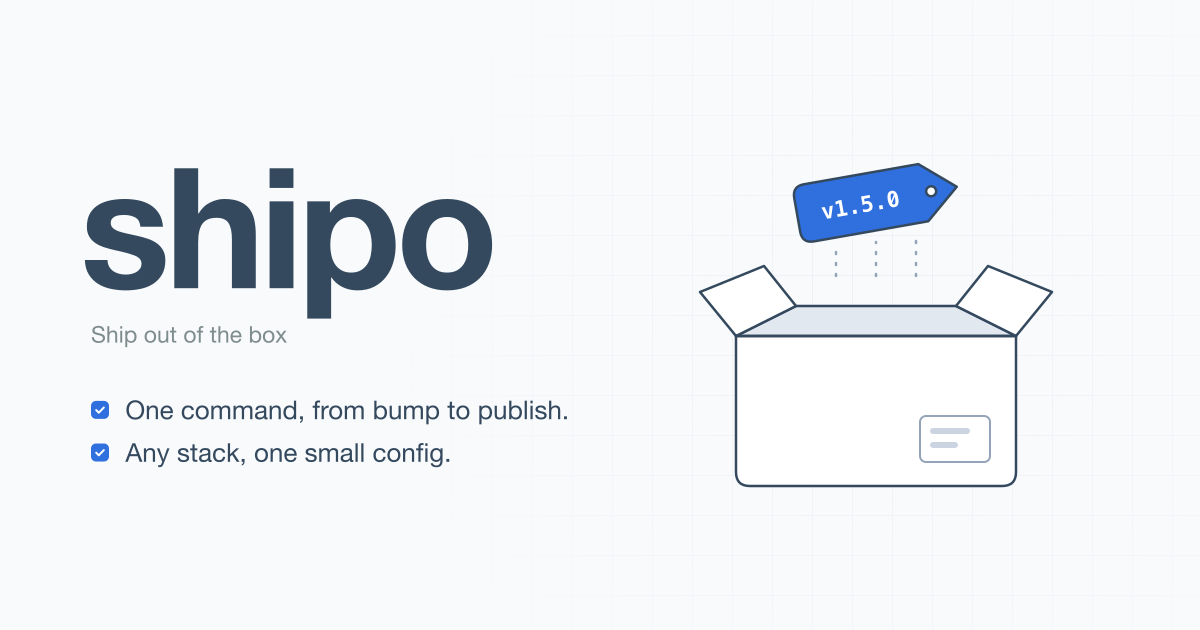
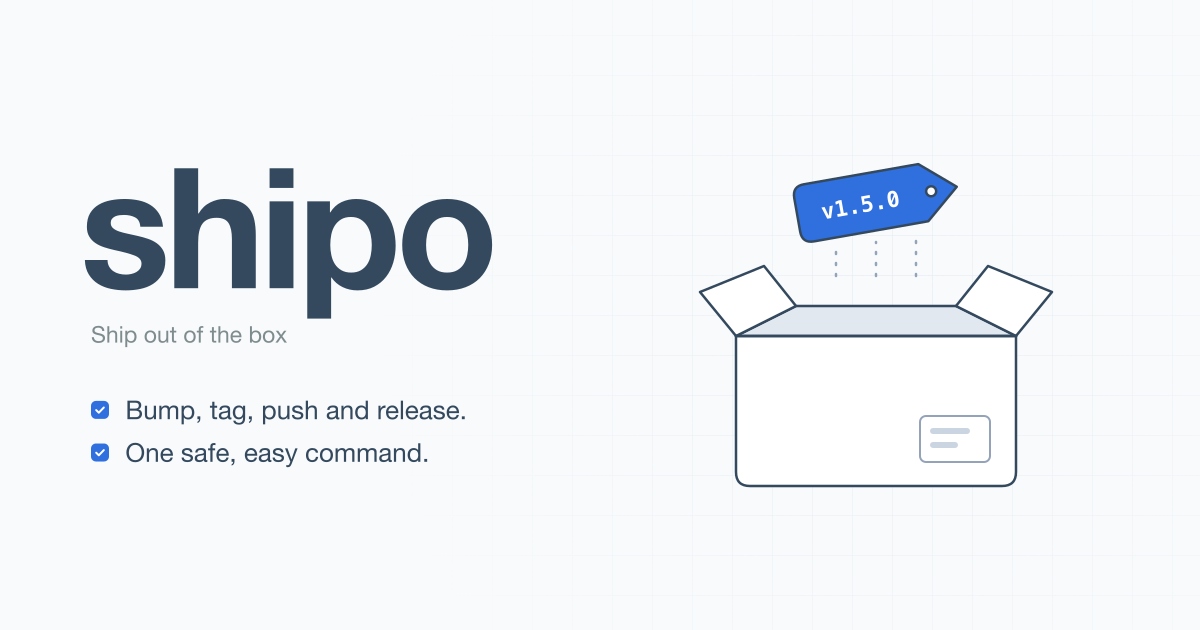
docs: say what shipo is, and what it is not
The tagline, the docs, the og image and the Homebrew description now
say it plainly: the release tasks you repeat by hand, in one safe, easy
command, on top of git, GitHub and your own tools. A GoReleaser recipe
shows the hand-off.

Changed region(s): [[0.0925, 0.6333, 0.4625, 0.754]]

diff --git a/docs/index.html b/docs/index.html
@@ -4,15 +4,15 @@
         <meta charset="UTF-8" />
         <meta name="viewport" content="width=device-width, initial-scale=1.0" />
         <title>shipo · Ship out of the box</title>
-        <meta name="description" content="shipo: one binary and a few lines of config: bump, tag, build and publish any repo" />
+        <meta name="description" content="Bump, tag, push, release: the tasks you repeat by hand, in one safe, easy command" />
         <meta property="og:type" content="website" />
         <meta property="og:url" content="https://diphyx.github.io/shipo/" />
         <meta property="og:title" content="shipo · Ship out of the box" />
-        <meta property="og:description" content="One binary and a few lines of config: bump, tag, build and publish any repo" />
+        <meta property="og:description" content="Bump, tag, push, release: the tasks you repeat by hand, in one safe, easy command" />
         <meta property="og:image" content="https://diphyx.github.io/shipo/_media/og.png" />
         <meta property="og:image:width" content="1200" />
         <meta property="og:image:height" content="630" />
-        <meta property="og:image:alt" content="shipo: ship out of the box. One binary and a few lines of config: bump, tag, build and publish any repo." />
+        <meta property="og:image:alt" content="shipo, ship out of the box: bump, tag, push and release in one safe, easy command. A release tag lifts out of an open box." />
         <meta name="twitter:card" content="summary_large_image" />
         <meta name="twitter:image" content="https://diphyx.github.io/shipo/_media/og.png" />
         <link rel="stylesheet" href="https://cdn.jsdelivr.net/npm/docsify@4/lib/themes/vue.css" />

diff --git a/docs/README.md b/docs/README.md
@@ -2,7 +2,7 @@
 
 **Ship out of the box**
 
-> One binary and a few lines of config: bump, tag, build and publish any repo
+> Bump, tag, push, release: the tasks you repeat by hand, in one safe, easy command
 
 ![checks, version, bump and build run locally and are undone on failure; publish sends the release out and is never undone](_media/flow.svg)
 
@@ -28,6 +28,20 @@ Run? [y/N] y
 ✓ command    [1/1] npm publish
 ```
 
+## What It Is
+
+The tasks of a release, wrapped in one command, on top of the tools you already use:
+
+- **shipo itself:** the checks, the version, the commit and the tag, and the undo when a local step fails.
+- **Your tools, run or started by shipo:** the build (`npm run build`, GoReleaser, `docker`), `git push`, the GitHub Release (`gh`), your Actions workflows, and your publish (`npm publish`, a deploy).
+
+## What It Is Not
+
+- **Not a build tool.** It compiles, packs and uploads nothing itself. GoReleaser, Docker and your package manager keep that job; shipo runs them.
+- **Not CI.** It runs on your machine, for you or an agent. What runs on GitHub stays in GitHub Actions; shipo starts it.
+- **Not automatic versioning.** You pick the bump. semantic-release and release-please pick it from commit messages, in CI.
+- **Not a changelog writer.** A GitHub Release gets the notes GitHub generates; a changelog file stays with your own tool.
+
 ## Why
 
 - **Out of the box.** One binary. Presets find the version in your stack, so a few lines of config are enough, and often none.
@@ -35,7 +49,6 @@ Run? [y/N] y
 - **Safe.** Every check runs before anything changes, and a failed local step is undone.
 - **Asks before it sends.** A GitHub Release, a workflow and your commands each ask first.
 - **Any stack.** JavaScript, Python, Rust, PHP, Dart, Java, C#, Go, Swift, or any file by pattern.
-- **Your tools.** shipo calls `git`, `gh` and your commands, with your own logins.
 - **For people and agents.** Interactive for you; every step also runs on its own for scripts and AI.
 
 ## Good Fit

diff --git a/README.md b/README.md
@@ -1,11 +1,12 @@
 # shipo
 
-**Ship out of the box.** One binary and a few lines of config: bump, tag, build and publish any repo.
+**Ship out of the box.** Bump, tag, push, release: the tasks you repeat by hand, in one safe, easy command.
 
 ![checks, version, bump and build run locally and are undone on failure; publish sends the release out and is never undone](docs/_media/flow.svg)
 
 - **Out of the box:** presets find the version in your stack; `shipo init` writes the config.
 - **One flow for every repo:** it replaces each project's own `release.sh`.
+- **On top of your tools:** `git`, GitHub and your own commands do the work; shipo runs them in order.
 - **Safe:** every check runs first, and a failed local step is undone.
 - **Asks before it sends:** a GitHub Release, a workflow and your commands each ask first.
 - **Any stack:** JavaScript, Python, Rust, PHP, Dart, Java, C#, Go, Swift, or any file by pattern.

diff --git a/docs/recipes.md b/docs/recipes.md
@@ -28,6 +28,23 @@ preset = "go"
 command = ["go vet ./...", "go test ./..."]
 ```
 
+## Go with GoReleaser
+
+shipo tags and pushes; GoReleaser builds the binaries and creates the GitHub Release, so leave `release` off. It reads `GITHUB_TOKEN` from your environment.
+
+```toml
+[version]
+preset = "go"
+
+[build]
+command = ["go test ./...", "goreleaser check"]
+
+[publish]
+command = "goreleaser release --clean"
+```
+
+To run GoReleaser in CI instead, drop `[publish]` `command`: the tag push starts its workflow.
+
 ## Python Package
 
 ```toml
